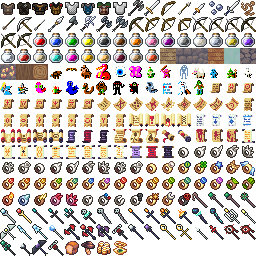
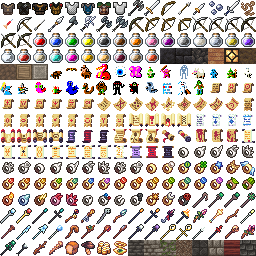
tiles16.png is the remapper-edited sheet again (bde806c's: 77b0271 had regenerated it from the source pictures, losing the edited wall textures, mirrored staffs and ring cells); a plain mktiles.py run keeps the sheet there is and cuts only cells past its end, and writes nothing when the pixels are u

diff --git a/assets/tiles/mktiles.py b/assets/tiles/mktiles.py
@@ -19,8 +19,9 @@ gear.rec, weapons.rec and potions.rec are the game's data (every field of an arm
 weapon or a potion); this script only cuts each record's picture: (relative to the rec, an
 animation strip's first 16px frame) or tints the potion sprite with its rgb: (tint_potion)
 onto the sheet and fills its icon: in, touching no other line. A rerun keeps
-the recs' icons (the remapper's edits); after adding or cutting a look, run it with --fresh,
-since the cells behind the kept icons have moved.
+the recs' icons and the sheet's cells behind them (the remapper's edits), cutting only
+new records' pictures; after adding or cutting a look, run it with --fresh, since the
+cells behind the kept icons have moved (it cuts every picture again).
 The game reads only the recs and the sheet (tiles.go); the remapper edits
 the recs (remap_*.sh). The first look of everything comes from the art
 the game used before: VoxelLib's CC0 item sprites and RPG16 pack, the
@@ -72,12 +73,24 @@ class Sheet:
         return self.index[key]
 
     def save(self):
+        """Writes the sheet. The remapper edits its cells (drops a picture on one, mirrors one), so
+        a plain run keeps the sheet there is and cuts only the cells past its end; --fresh cuts
+        them all."""
         s, rows = self.size, (len(self.cells) + self.cols - 1) // self.cols
+        path, kept, old = os.path.join(HERE, self.name), 0, None
+        if not FRESH and os.path.exists(path):
+            old = Image.open(path).convert('RGBA')
+            rows, kept = max(rows, old.size[1] // s), old.size[0] // s * (old.size[1] // s)
         im = Image.new('RGBA', (self.cols * s, max(rows, 1) * s), (0, 0, 0, 0))
-        for i, c in enumerate(self.cells):
+        if old:
+            im.paste(old, (0, 0))
+        for i, c in enumerate(self.cells[kept:], kept):
             im.paste(c, ((i % self.cols) * s, (i // self.cols) * s))
-        im.save(os.path.join(HERE, self.name))
-        print(f'{self.name}: {len(self.cells)} cells of {s}px, {self.cols} per row')
+        if old and old.size == im.size and old.tobytes() == im.tobytes():
+            print(f'{self.name}: unchanged')
+            return
+        im.save(path)
+        print(f'{self.name}: {len(self.cells)} cells of {s}px, {self.cols} per row, {max(len(self.cells) - kept, 0)} cut')
 
     def rec(self, path, doc, cat, records):
         """records: (id, name, icon[, w, h]); a remapped id keeps its icon."""
